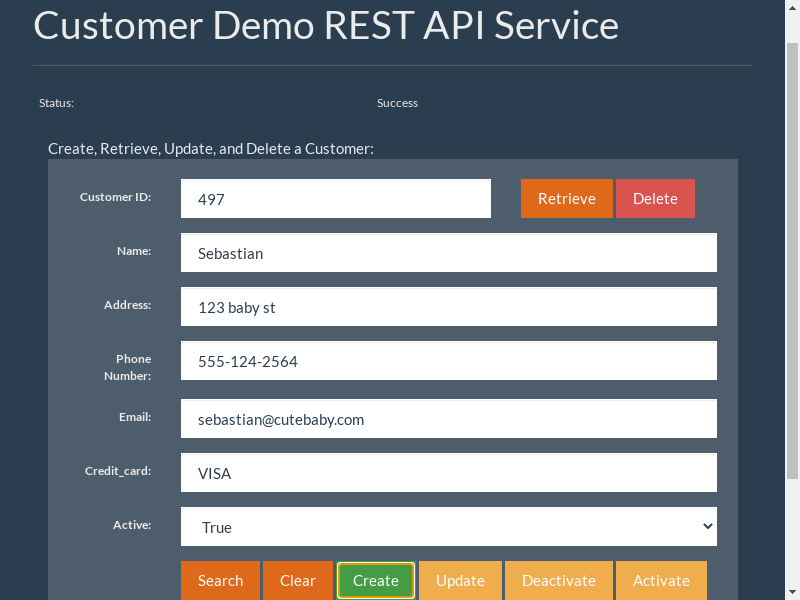
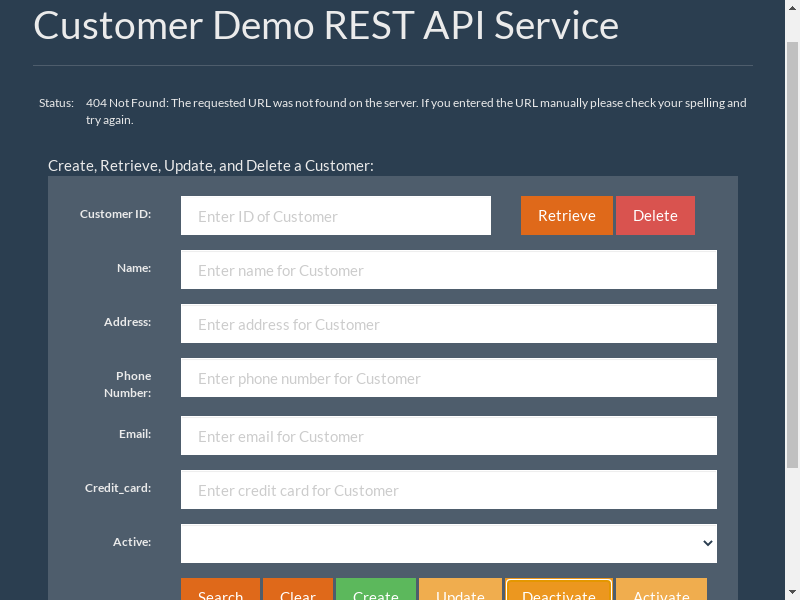
Deactivate and activate bdd code

diff --git a/features/steps/customer_steps.py b/features/steps/customer_steps.py
@@ -111,7 +111,7 @@ def step_impl(context, name):
 
 @then('I should see the message "{message}"')
 def step_impl(context, message):
-    #context.driver.save_screenshot('debug.png')
+    context.driver.save_screenshot('debug.png')
     element = context.driver.find_element_by_id('flash_message')
     # expect(element.text).to_contain(message)
     found = WebDriverWait(context.driver, WAIT_SECONDS).until(
@@ -121,6 +121,13 @@ def step_impl(context, message):
         )
     )
     expect(found).to_be(True)
+
+
+@then('I should see "{text}" in the "{element_name}" dropdown')
+def step_impl(context, text, element_name):
+    element_id = ID_PREFIX + element_name.lower()
+    element = Select(context.driver.find_element_by_id(element_id))
+    expect(element.first_selected_option.text).to_equal(text)
 
 
 @then('the "{element_name}" field should be empty')
@@ -133,7 +140,7 @@ def step_impl(context, element_name):
 @then('I should see "{text_string}" in the "{element_name}" field')
 def step_impl(context, text_string, element_name):
     element_id = ID_PREFIX + element_name.lower()
-    # element = context.driver.find_element_by_id(element_id)
+    element = context.driver.find_element_by_id(element_id)
     # expect(element.get_attribute('value')).to_equal(text_string)
     found = WebDriverWait(context.driver, WAIT_SECONDS).until(
         expected_conditions.text_to_be_present_in_element_value(
